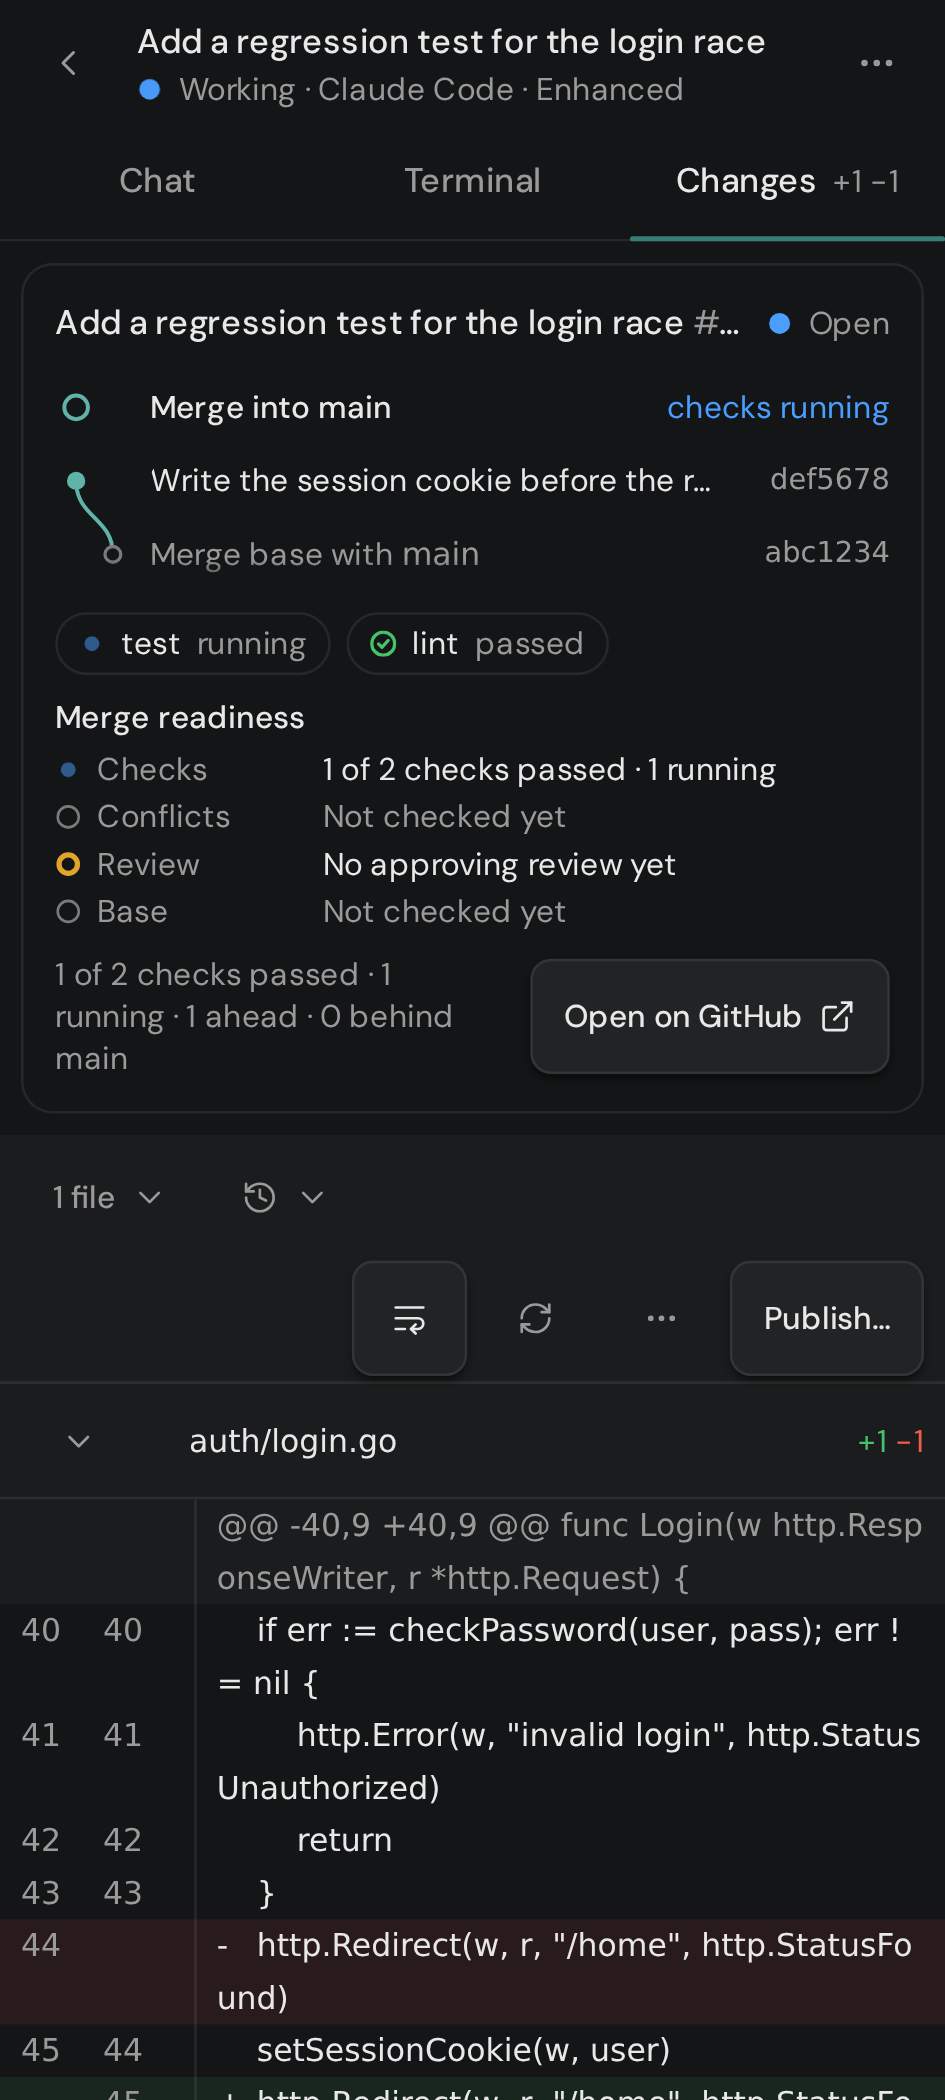
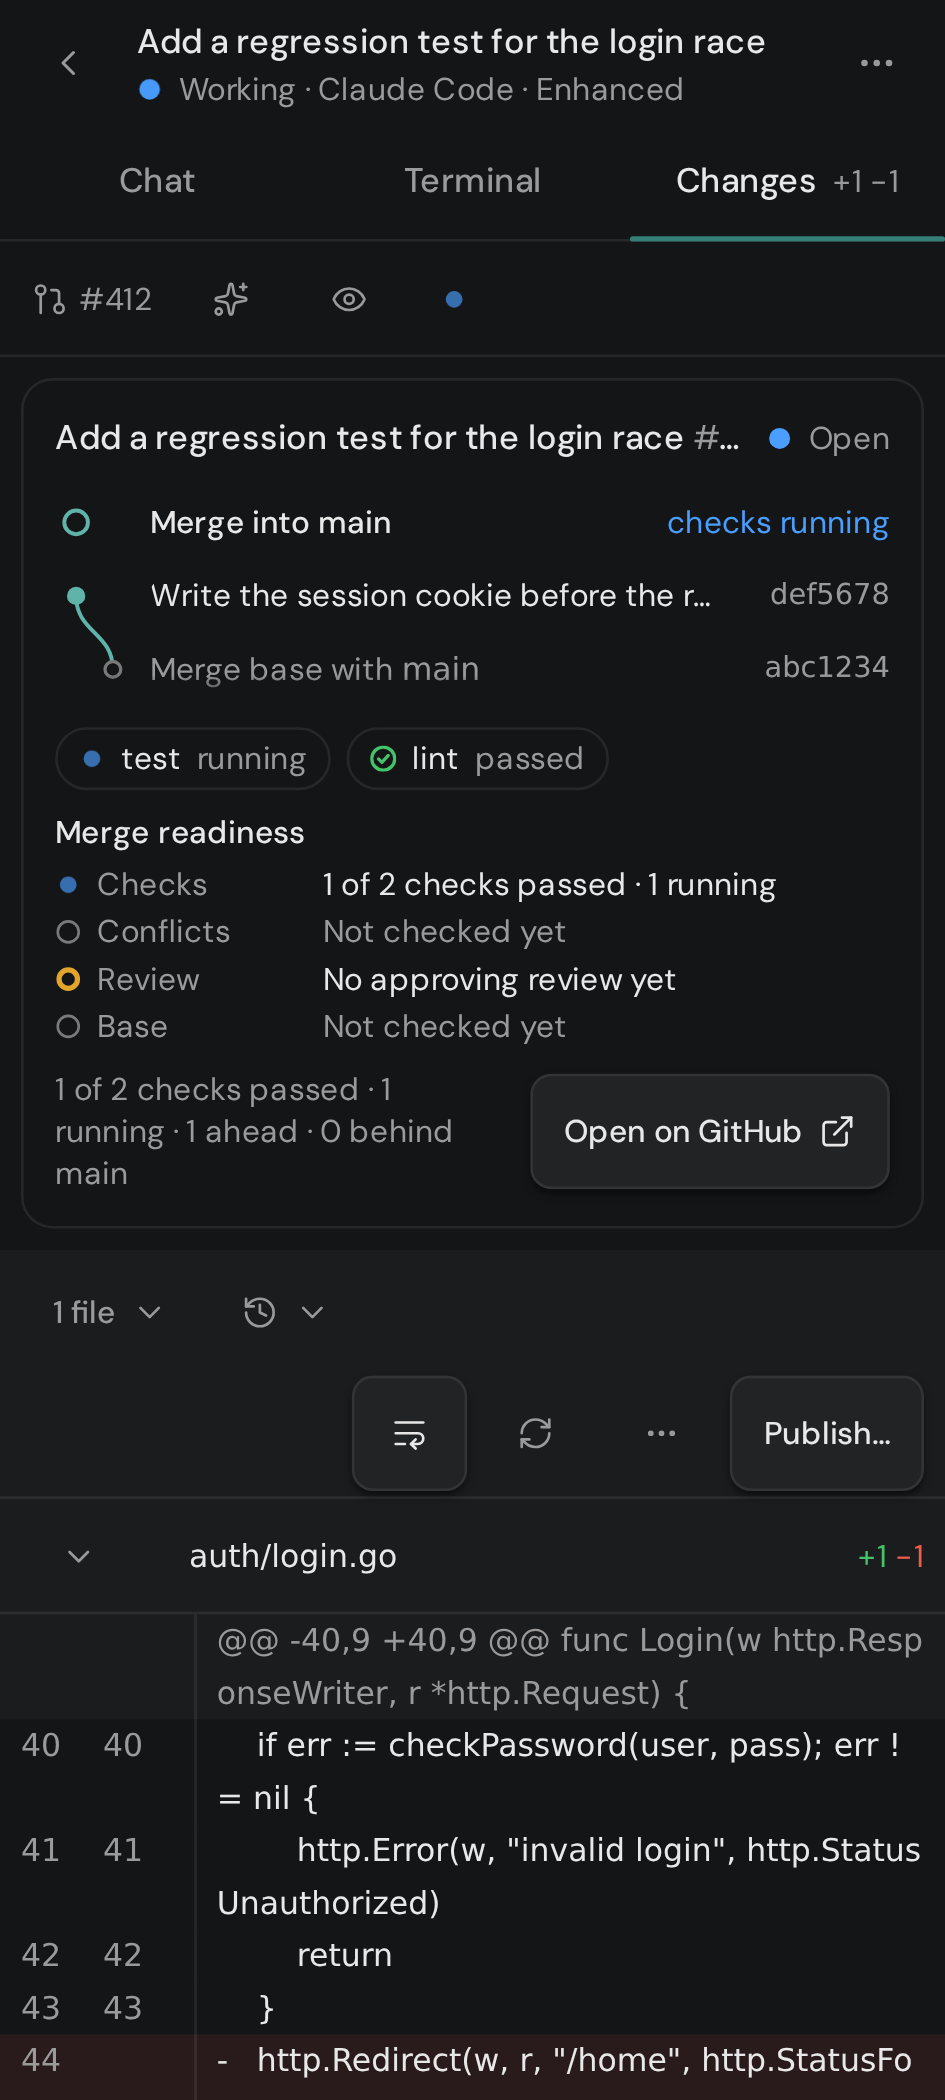
fix(dashboard): keep phone pull request actions and queued option changes
Greptile on the phone session screen found that dropping the pull
request from the phone header left no way to read its feedback, send
it to the agent or watch it, and that a send queued for control
replaced an option change queued before it, so the prompt ran with the
old model.

The pull request is back in its own row on the Changes tab, left
aligned, and actions waiting for control run in the order they were
asked.

diff --git a/web/src/routes/run/agent-terminal.ts b/web/src/routes/run/agent-terminal.ts
@@ -183,19 +183,20 @@ export function useImplicitControl(run: RunRecord, agent: AgentTerminal) {
   const holderConnected = useStore((s) => s.roomStatus[run.id]?.controller?.connected !== false)
   const free = run.member_id === self.id && holder === undefined
   const implicit = !agent.localControl && free && agent.steerable && !agent.controlUnavailable
-  const queued = useRef<{ act: () => void; lost?: () => void } | null>(null)
+  // In order, so an option chosen before a send reaches the agent first.
+  const queued = useRef<{ act: () => void; lost?: () => void }[]>([])
   const timer = useRef<ReturnType<typeof setTimeout>>(undefined)
   useEffect(() => {
-    if (!agent.localControl || !queued.current) return
-    const { act } = queued.current
-    queued.current = null
+    if (!agent.localControl || queued.current.length === 0) return
+    const acts = queued.current
+    queued.current = []
     clearTimeout(timer.current)
-    act()
+    for (const { act } of acts) act()
   }, [agent.localControl])
   const drop = () => {
     const dropped = queued.current
-    queued.current = null
-    dropped?.lost?.()
+    queued.current = []
+    for (const { lost } of dropped) lost?.()
   }
   useEffect(() => () => {
     clearTimeout(timer.current)
@@ -205,8 +206,7 @@ export function useImplicitControl(run: RunRecord, agent: AgentTerminal) {
   const withControl = (act: () => void, lost?: () => void) => {
     if (agent.localControl) return act()
     if (!implicit) return lost?.()
-    drop()
-    queued.current = { act, lost }
+    queued.current.push({ act, lost })
     clearTimeout(timer.current)
     timer.current = setTimeout(drop, implicitControlWindowMs)
     agent.session.takeControl()

diff --git a/web/src/routes/run/phone-header.tsx b/web/src/routes/run/phone-header.tsx
@@ -46,7 +46,7 @@ function leave() {
   else redirectRoute(useStore, { name: 'sessions', params: {} })
 }
 
-export function PhoneRunHeader({ run, view, views, nav, agentName, keyboard, primary, detailsOpen, onDetails, onWorkflow, extra }: {
+export function PhoneRunHeader({ run, view, views, nav, agentName, keyboard, primary, detailsOpen, onDetails, onWorkflow, extra, pullRequest }: {
   run: RunRecord
   view: RunView
   views: RunView[]
@@ -58,6 +58,8 @@ export function PhoneRunHeader({ run, view, views, nav, agentName, keyboard, pri
   onDetails: (opener: HTMLElement | null) => void
   onWorkflow: (opener: HTMLElement | null) => void
   extra: ExtraItem[]
+  /** Kept to the Changes tab, where it cannot crowd the tabs. */
+  pullRequest: React.ReactNode
 }) {
   const shown = useRunPresentation(run)
   const assistant = useAssistantAvailable()
@@ -115,6 +117,9 @@ export function PhoneRunHeader({ run, view, views, nav, agentName, keyboard, pri
           ))}
         </TabsList>
       </div>
+      {!keyboard && view === 'changes' && pullRequest && (
+        <div className="flex h-11 shrink-0 items-center border-b border-seam px-2 [&>[role=group]]:ml-0 [&>[role=group]]:pl-0">{pullRequest}</div>
+      )}
       <ConnectionLine className="border-b border-seam px-4 py-1" />
     </>
   )

diff --git a/web/src/routes/run/header.tsx b/web/src/routes/run/header.tsx
@@ -326,6 +326,7 @@ export function RunHeader({
           onDetails={onDetails}
           onWorkflow={onWorkflow}
           extra={extra}
+          pullRequest={pullRequest.status}
         />
         {!keyboard && <WaitLine run={run} />}
         {!keyboard && <RunLineage run={run} />}

diff --git a/docs/dashboard-frontend.md b/docs/dashboard-frontend.md
@@ -600,8 +600,9 @@ mode), the header's primary action when there is one, and **More**. Under it
 the tabs **Chat**, **Terminal** and **Changes** fill a 44px row; a Standard
 session orders them **Terminal**, **Chat**, **Changes**. **Changes** carries
 the muted `+N −M` of the latest snapshot, unless it was truncated, and drops
-it below 400px while a fourth tab shows. The header carries no pull request;
-the Changes tab's git card shows it.
+it below 400px while a fourth tab shows. The pull request, with its checks,
+feedback and **Watch PR**, would crowd the tabs, so it sits in a 44px row of
+its own under them on the Changes tab only.
 
 **More** opens with a **Views** group (Trace, Files, Browser, **Session
 details**, **Workflow**, **Search…**, **Assistant**), then the session's
@@ -637,8 +638,9 @@ On a phone the strip shows only while someone else watches, another member
 or another of your tabs holds control, the session is not yours, or control,
 presence or the stream failed (`useSharedPresence`). Only the owner takes
 free control implicitly, by sending a message or changing a model, mode or
-effort option; an option change that does not get control within 10 seconds
-says so at the composer. Details lists the people. A hidden tab bar removes
+effort option. What waits for control runs in the order it was asked, so an
+option chosen before a send reaches the agent first. An option change that does not
+get control within 10 seconds says so at the composer. Details lists the people. A hidden tab bar removes
 `--phone-tabs-height`, so toasts fall back to the bottom safe area.
 
 The Chat composer is the desktop `ComposerBox`. It pads by
